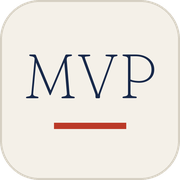
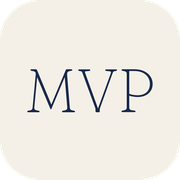
Add files via upload

diff --git a/index.html b/index.html
@@ -116,27 +116,27 @@
   .nav-call:hover{ opacity:.9; }
 
   /* ---------- Hero / heritage lockup ---------- */
-  .hero{ padding:58px 0 50px; text-align:center; }
-  .hero .eyebrow{ display:block; margin-bottom:30px; }
+  .hero{ padding:44px 0 52px; text-align:center; }
+  .hero .eyebrow{ display:block; margin-bottom:34px; }
 
   .lockup .mvp{
     font-family:'Fraunces', serif; font-weight:600;
-    font-size:clamp(4.4rem,17vw,9rem); line-height:.86; letter-spacing:-0.03em; color:var(--navy);
+    font-size:clamp(4.8rem,19vw,12rem); line-height:.82; letter-spacing:-0.03em; color:var(--navy);
   }
   .lockup .sub{
-    display:flex; align-items:center; justify-content:center; gap:16px; margin-top:16px;
+    display:flex; align-items:center; justify-content:center; gap:20px; margin-top:22px;
   }
   .lockup .sub::before,.lockup .sub::after{
-    content:""; height:1.5px; width:clamp(18px,7vw,64px); background:var(--red);
+    content:""; height:2px; width:clamp(24px,7vw,84px); background:var(--red);
   }
   .lockup .sub span{
     font-family:'Inter', sans-serif; font-weight:600; text-transform:uppercase;
-    letter-spacing:.24em; font-size:clamp(.66rem,2.1vw,.95rem); color:var(--navy);
+    letter-spacing:.28em; font-size:clamp(.72rem,2.3vw,1.12rem); color:var(--navy);
   }
 
-  .hero .promise{ font-size:clamp(1.4rem,3.6vw,2rem); color:var(--navy-72); margin-top:32px; }
-  .hero .lead{ max-width:44ch; margin:22px auto 0; font-size:1.06rem; color:var(--navy-72); }
-  .hero-ctas{ display:flex; align-items:center; justify-content:center; gap:24px; margin-top:34px; flex-wrap:wrap; }
+  .hero .promise{ font-size:clamp(1.55rem,3.9vw,2.4rem); color:var(--navy-72); margin-top:38px; }
+  .hero .lead{ max-width:50ch; margin:26px auto 0; font-size:1.12rem; color:var(--navy-72); }
+  .hero-ctas{ display:flex; align-items:center; justify-content:center; gap:24px; margin-top:40px; flex-wrap:wrap; }
 
   .btn{
     font-family:'Inter', sans-serif; font-weight:600; font-size:1rem;
@@ -161,10 +161,10 @@
     aspect-ratio:4/5; border-radius:14px; overflow:hidden;
     background:#E1DACB; border:1px solid var(--navy-14);
   }
-  .photo::after{ content:""; position:absolute; left:0; right:0; bottom:0; height:4px; background:var(--red); }
-  .photo img{ position:absolute; inset:0; width:100%; height:100%; object-fit:cover; }
+  .photo::after{ content:""; position:absolute; left:0; right:0; bottom:0; height:4px; background:var(--red); z-index:2; }
+  .photo img{ position:absolute; inset:0; width:100%; height:100%; object-fit:cover; z-index:1; }
   .photo .photo-ph{
-    position:absolute; inset:0; display:flex; flex-direction:column;
+    position:absolute; inset:0; z-index:0; display:flex; flex-direction:column;
     align-items:center; justify-content:center; gap:10px; padding:20px; text-align:center;
     color:var(--navy-55); font-size:.7rem; font-weight:600; text-transform:uppercase; letter-spacing:.18em;
   }
@@ -257,7 +257,8 @@
     .gtk{ grid-template-columns:1fr 1fr; column-gap:56px; }
     .gtk .row{ grid-template-columns:1fr; }
     section{ padding:82px 0; }
-    .hero{ padding:80px 0 54px; }
+    .hero{ min-height:calc(92vh - 64px); display:flex; flex-direction:column; justify-content:center; padding:36px 0 60px; }
+    .btn{ padding:15px 34px; font-size:1.02rem; }
   }
 
   @media (prefers-reduced-motion:reduce){ *{ transition:none !important; scroll-behavior:auto; } }